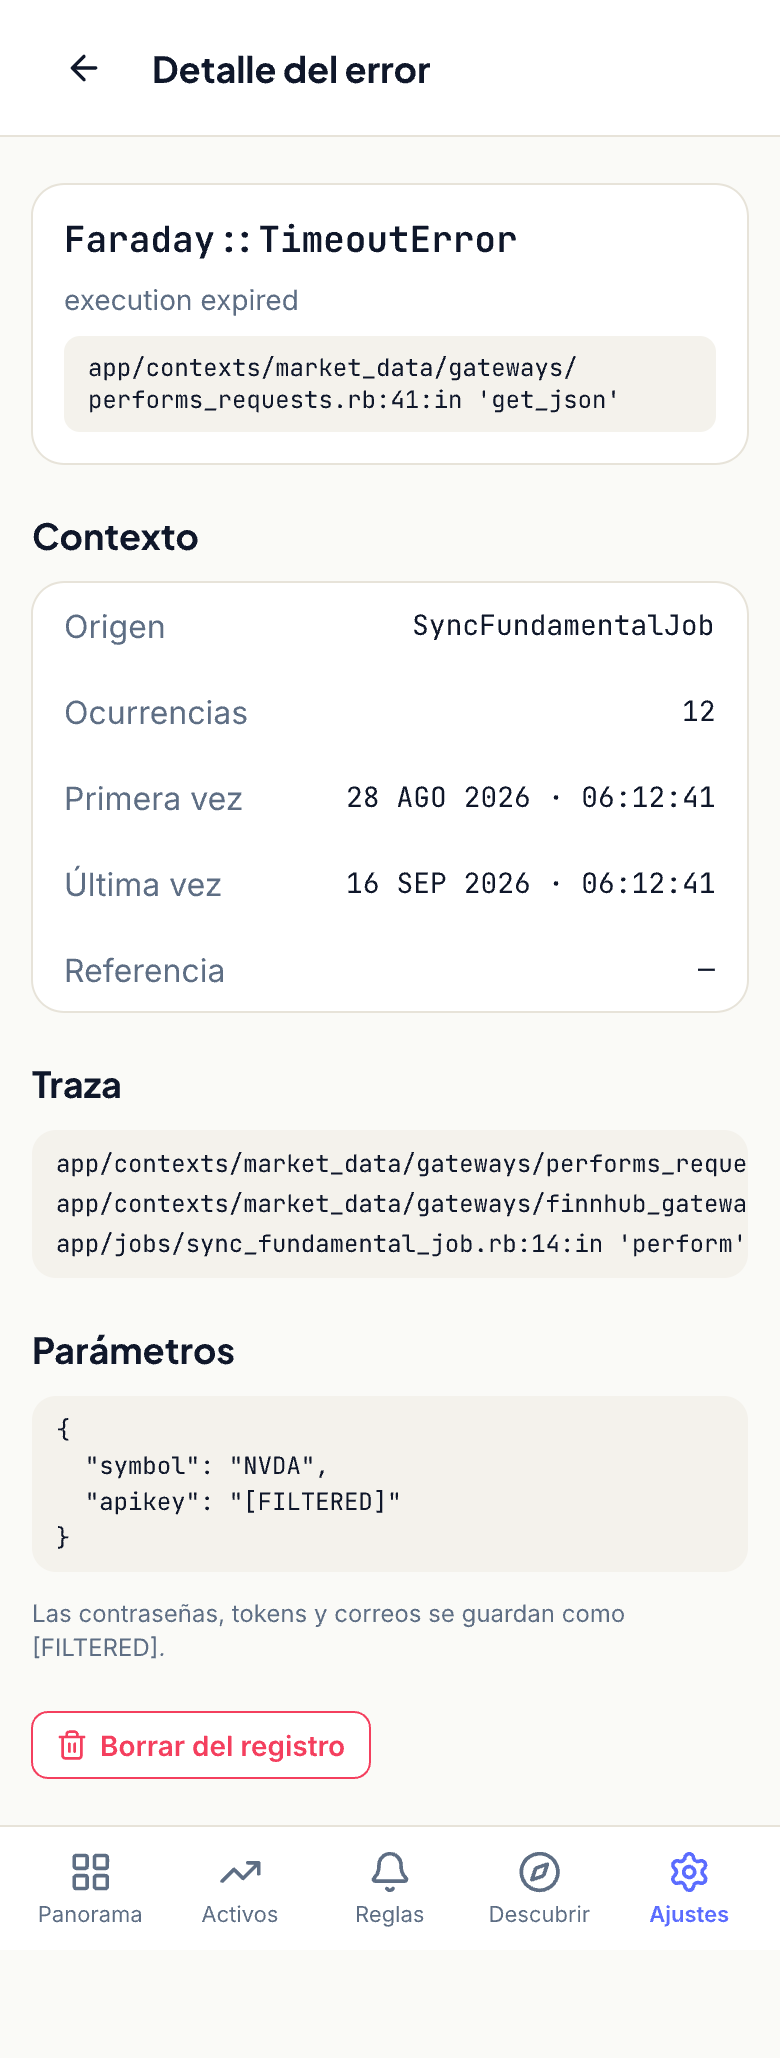
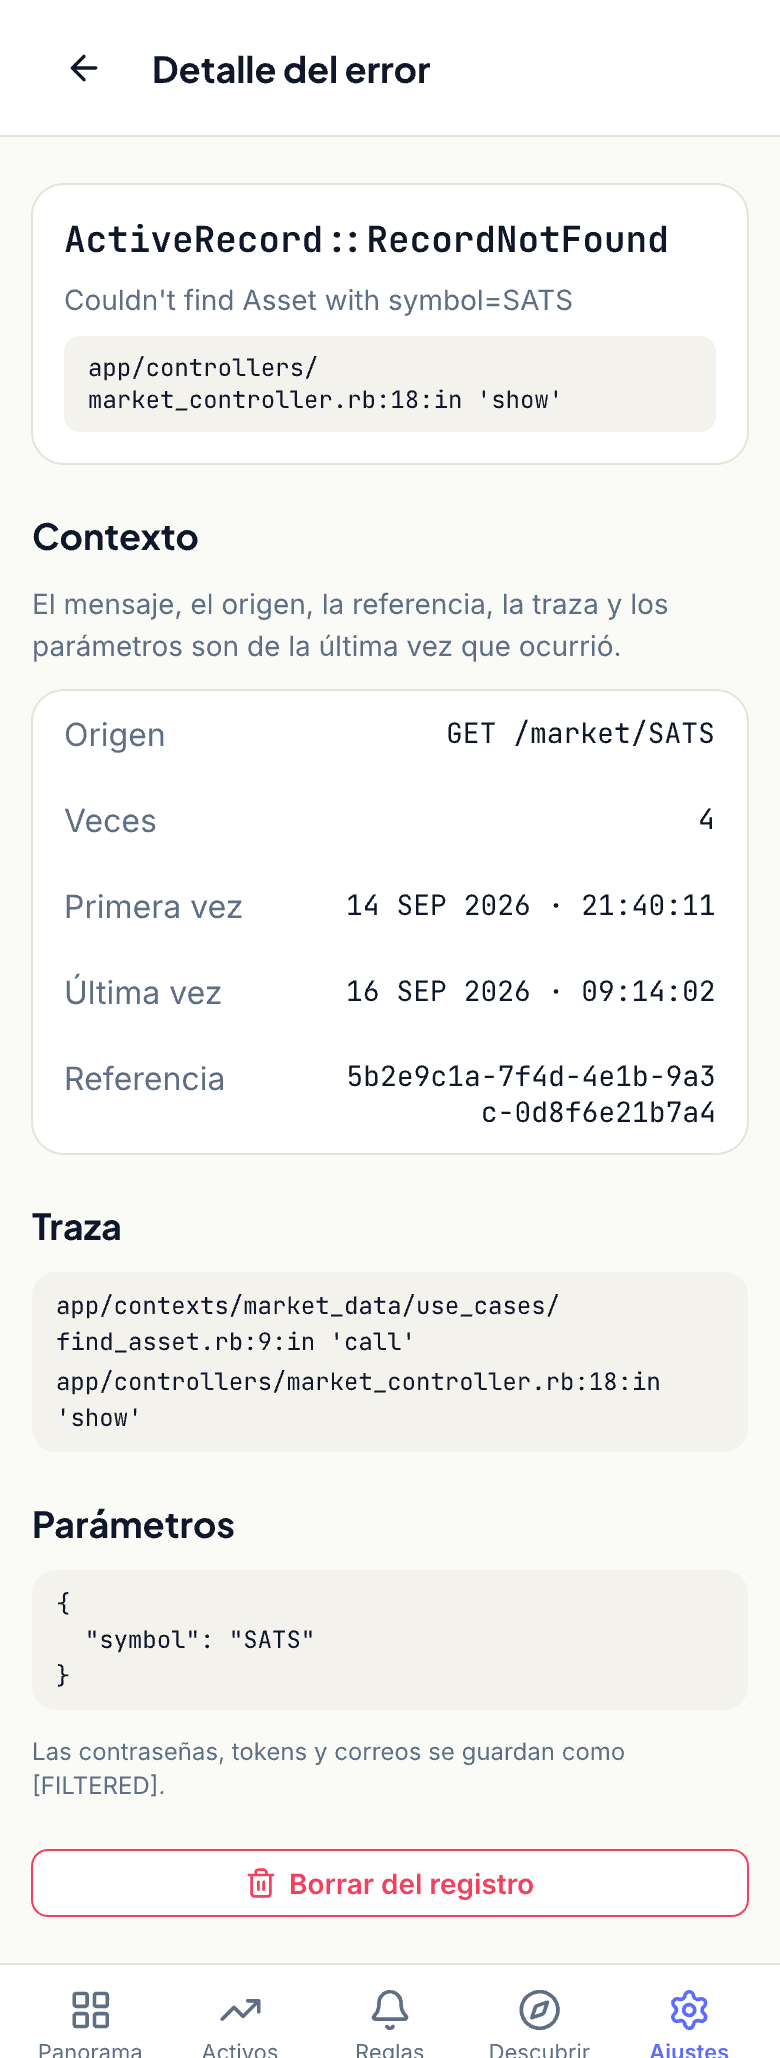
docs(design): mirror the errors fixes into its flow

diff --git a/design/exports/README.md b/design/exports/README.md
@@ -243,7 +243,7 @@ exports, so re-shoot these when those change.
 | File | Artboard |
 |---|---|
 | `errors-lista.png` | `[Errores] / Lista / Default` |
-| `errors-detalle.png` | `[Errores] / Detalle / Default` — one error opened: trace and occurrences |
+| `errors-detalle.png` | `[Errores] / Detalle / Default` — a request error opened: the latest-occurrence note, trace and parameters |
 
 **Uso (`flows/usage.pen`).** The opt-in usage record (ADR-032).
 
